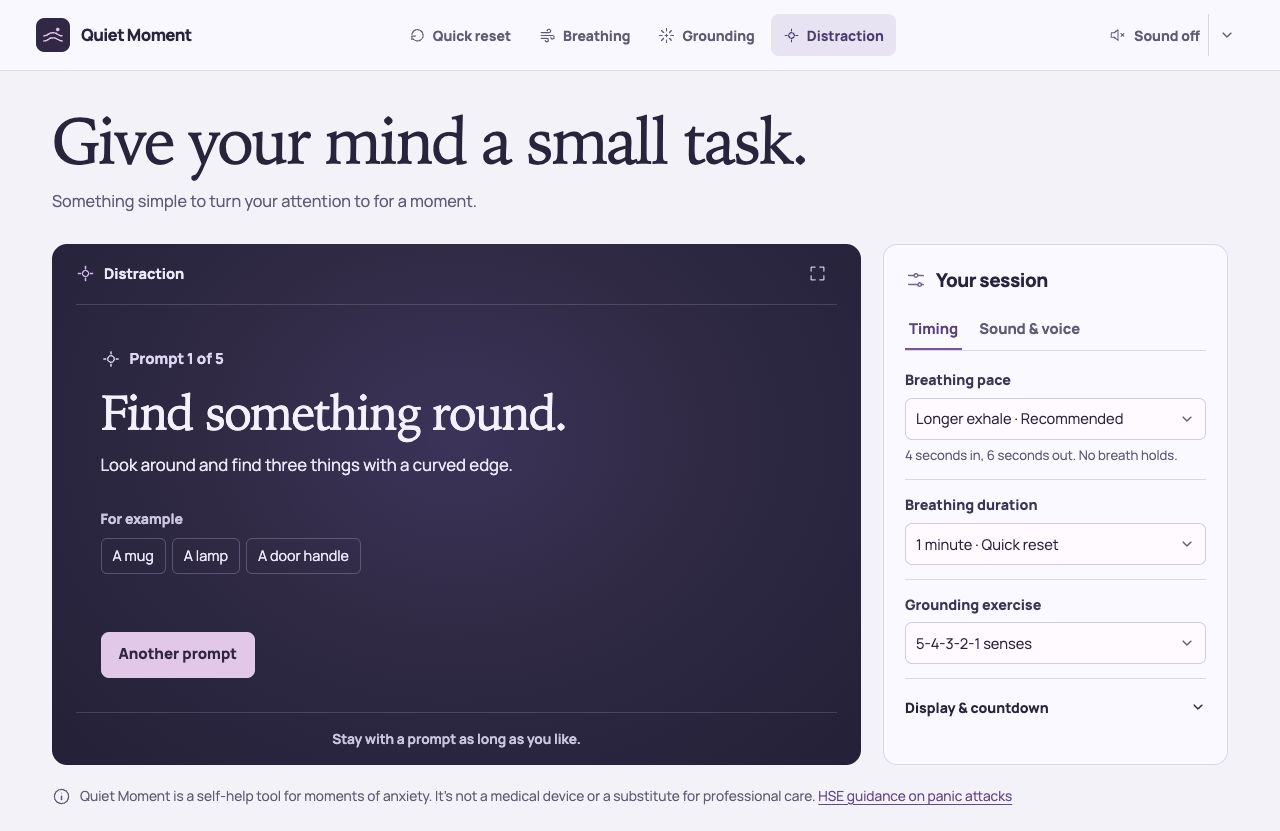
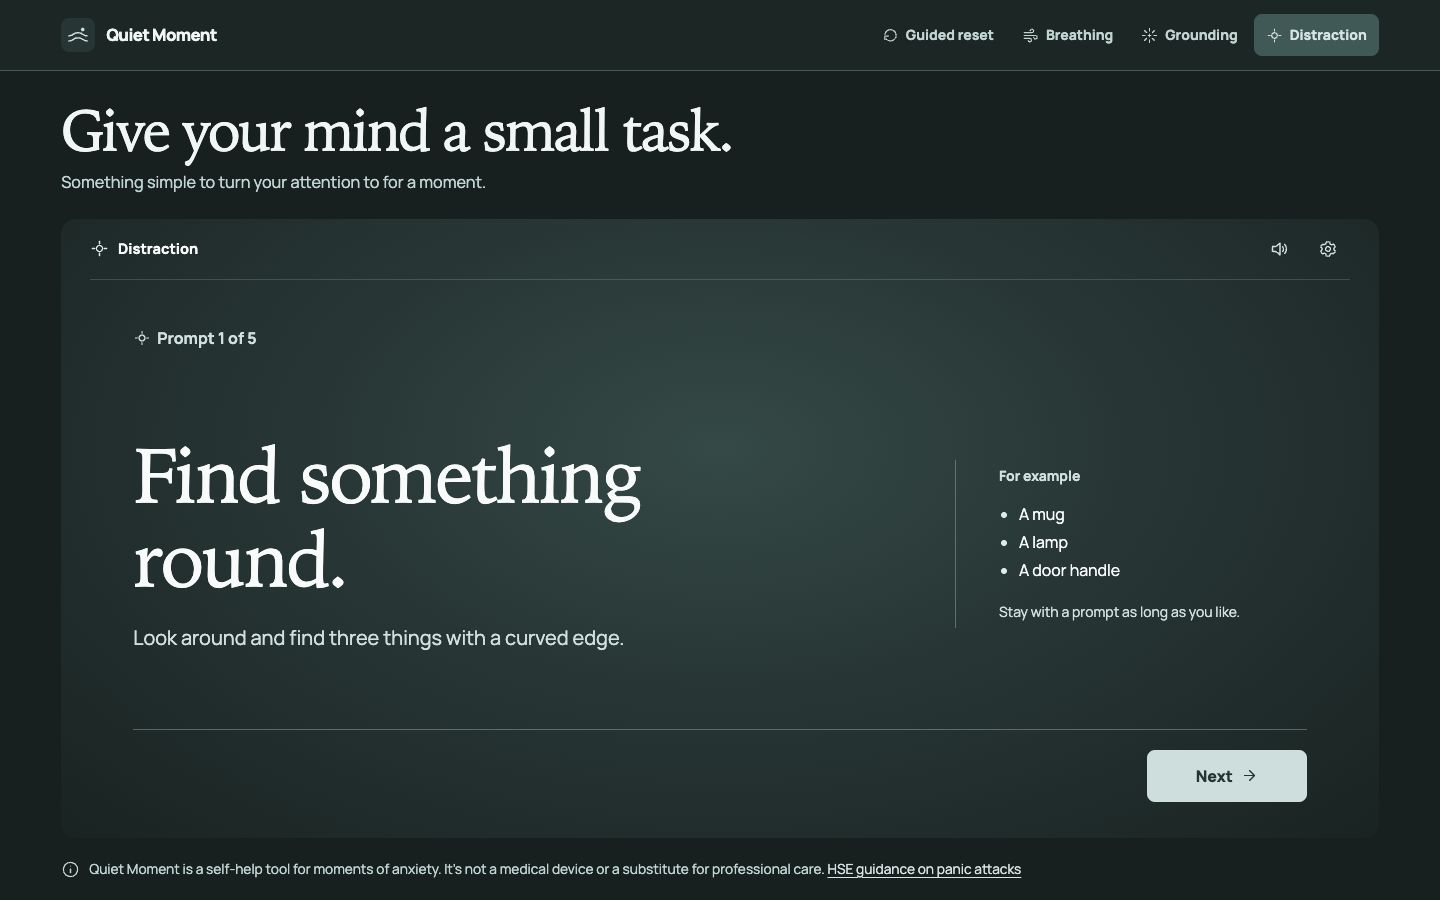
Refresh README screenshots and exercise instructions

diff --git a/README.md b/README.md
@@ -21,33 +21,35 @@ Try it out on https://quiet-moment-lovat.vercel.app/
 2. Follow the **In**, **Out**, and **Hold** cues in the circle at a pace that feels comfortable. Tap the circle or **Pause** to take a break. Tap again to resume, or choose **Reset** to go back to the start.
 3. When breathing ends, the app opens a grounding exercise. You can also choose **Grounding** in the player header during the session.
 
-![Desktop Guided reset with Start in the centre of the circle and session settings alongside](docs/screenshots/desktop-quick-reset.jpg)
+![Guided reset in Purple on desktop, ready to start with Breathing and Grounding shown in the player header](docs/screenshots/desktop-quick-reset.jpg)
 
 ## Choose an exercise
 
 ### Breathing
 
-Choose **Breathing** for a session on its own. The cue shows when to breathe in through your nose and out through your mouth. The centre grows and shrinks with the breath. The outer ring fills clockwise once per cycle, with a notch at each cue change. Open the settings gear in the page header and choose a pace under **Timing** to see its inhale, exhale, and hold times, or set your own. Set either custom hold to zero to skip it.
+Choose **Breathing** for a session on its own. The cue shows when to breathe in through your nose and out through your mouth. The centre grows and shrinks with the breath. The outer ring fills clockwise once per cycle, with a notch at each cue change. Open the settings gear in the player header and choose a pace under **Timing** to see its inhale, exhale, and hold times, or set your own. Set either custom hold to zero to skip it.
 
-![Desktop Breathing mode showing an inhale cue, a countdown in the circle, and Pause and Reset](docs/screenshots/desktop-breathing.jpg)
+![Breathing in Ocean blue on desktop, showing an inhale countdown and Pause and Reset controls](docs/screenshots/desktop-breathing.jpg)
 
 ### Grounding
 
-Work through the senses one at a time. Tap a number to record how many things you’ve noticed. Tapping **3**, for example, marks the first three and shows **3 / 5 noticed**. Choose **Next prompt** when you’re ready or **Skip prompt** to move on earlier.
+Work through the senses one at a time. If you want to keep count, tap **Count one** for each thing you notice. Use **Undo** to remove the last count. Choose **Next** whenever you’re ready, or **Back** to return to the previous prompt with its count intact. Choose **Finish** on the last prompt.
 
-![Desktop Grounding mode showing the first sensory prompt and three of five items marked](docs/screenshots/desktop-grounding.jpg)
+Use **Change exercise** to pick the full 5-4-3-2-1 exercise, the quick 3-2-1 version, or **Orient to the room**, which uses prompts without counting.
+
+![Grounding in Slate on desktop, with the sight prompt and three of five items marked](docs/screenshots/desktop-grounding.jpg)
 
 ### Distraction
 
-Try a small task, such as finding round objects nearby. Each prompt includes examples, and **Another prompt** lets you move on at your own pace.
+Try a small task, such as finding round objects nearby. Each prompt includes examples. Choose **Next** to continue at your own pace or **Start over** after the last prompt.
 
-![Desktop Distraction mode showing a prompt to find round objects and three examples](docs/screenshots/desktop-distraction.jpg)
+![Distraction in Teal on desktop, showing the round-object prompt and three examples](docs/screenshots/desktop-distraction.jpg)
 
 ## Use Quiet Moment on a phone
 
-The page adapts to the screen width automatically. On a phone, the exercise fills a single column. The gear opens **Settings** from the page header.
+The page adapts to the screen width automatically. On a phone, the exercise fills a single column. Open **Settings** with the gear in the player header.
 
-<img src="docs/screenshots/mobile-breathing.jpg" alt="Phone layout showing a breathing cue, countdown, large Pause and Reset buttons, and session controls" width="390" />
+<img src="docs/screenshots/mobile-breathing.jpg" alt="Breathing on a phone in Teal with Light appearance, showing an exhale countdown and Pause and Reset controls" width="390" />
 
 ## Set up your session
 
@@ -74,4 +76,4 @@ Quiet Moment uses Vue 3, TypeScript, Vite, and Tailwind CSS. Run `pnpm run check
 
 ## Appearance
 
-Open **Settings → Display → Appearance** to choose System, Light, or Dark. System follows your device. Your choice is remembered in the browser.
+Open **Settings → Display → Appearance** to choose System, Light, or Dark. System follows your device. Use **Color theme** in the same panel to choose a palette. The desktop screenshots feature Purple, Ocean blue, Slate, and Teal. The phone screenshot shows Teal in Light appearance. Quiet Moment remembers both choices in your browser.
